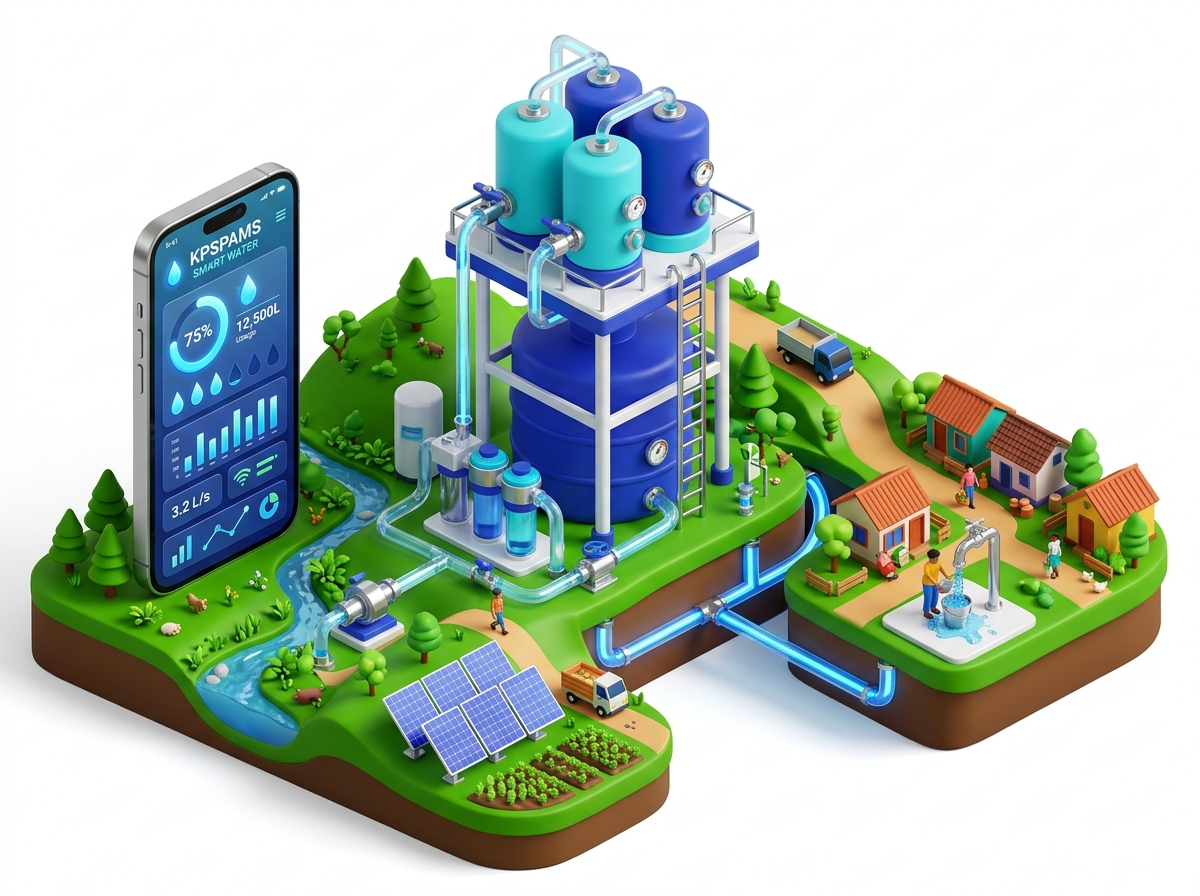
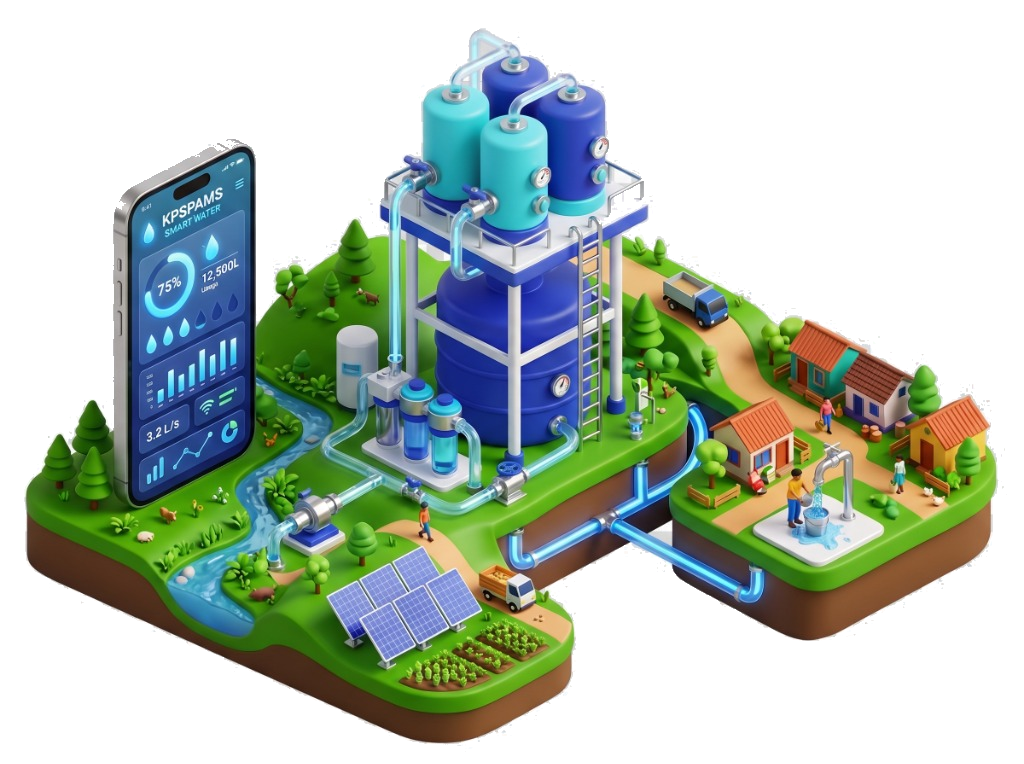
feat(hero): replace hero illustration with transparent PNG version

diff --git a/frontend/src/app/page.tsx b/frontend/src/app/page.tsx
@@ -391,10 +391,10 @@ export default function HomePage() {
                     <Image
                       src="/hero-water-illustration.png"
                       alt="Ilustrasi Infrastruktur Air Bersih KPSPAMS Desa Kuajang"
-                      width={700}
-                      height={500}
+                      width={1024}
+                      height={764}
                       priority
-                      className="w-full h-auto max-h-[250px] sm:max-h-[360px] lg:max-h-none object-contain mx-auto mix-blend-multiply drop-shadow-xl"
+                      className="w-full h-auto max-h-[280px] sm:max-h-[420px] lg:max-h-none object-contain mx-auto drop-shadow-2xl"
                     />
                   </div>
                 </div>
